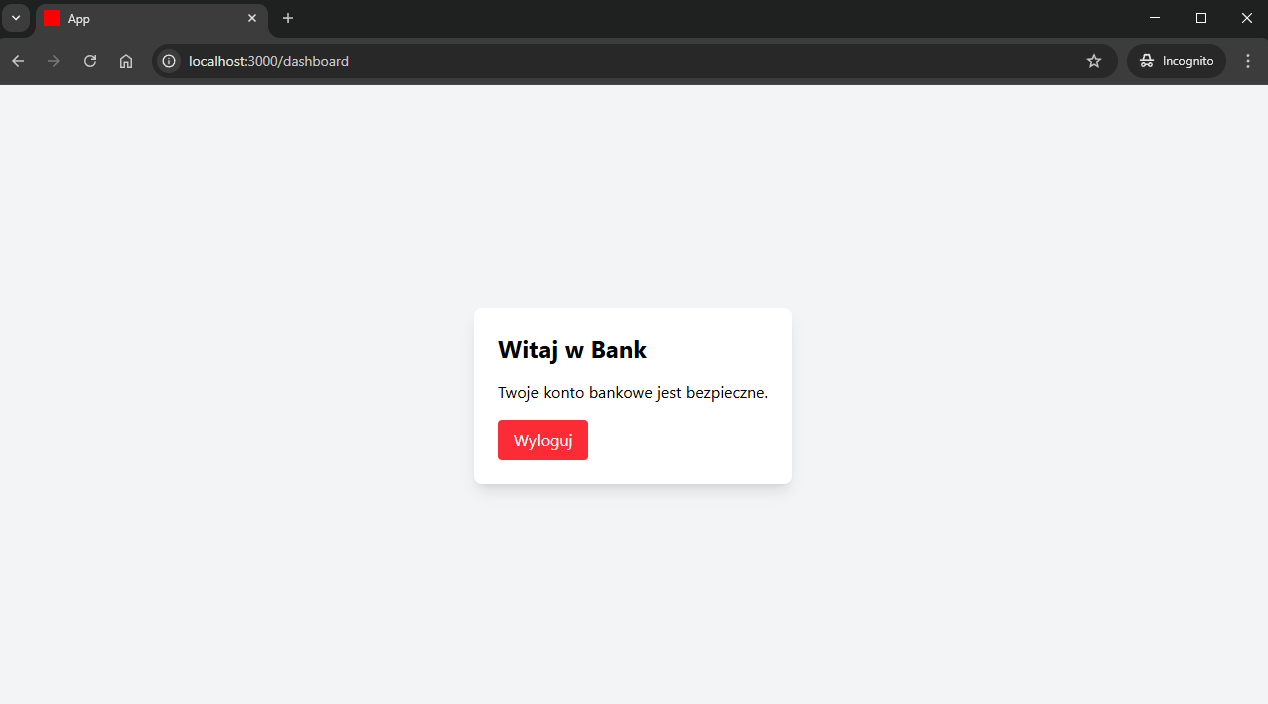
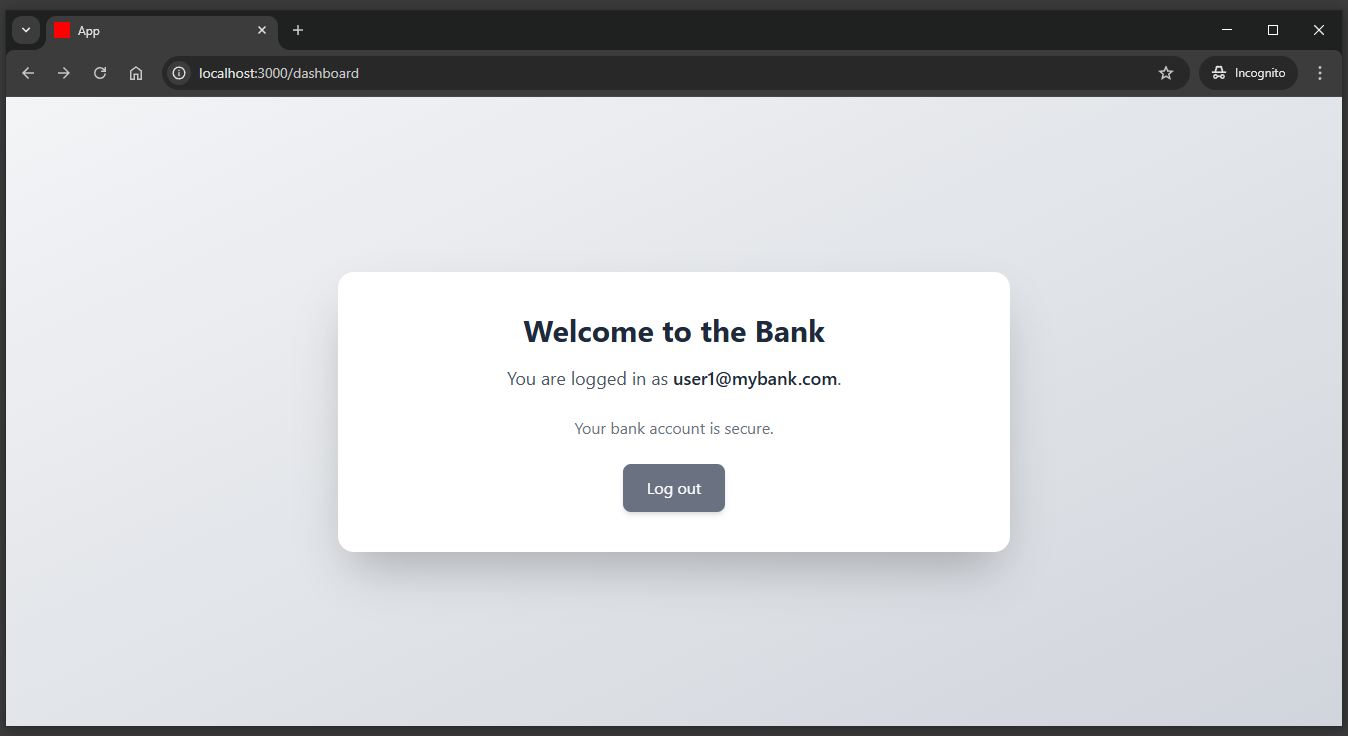
feat: add login rate limiting example

Changed region(s): [[0.0, 0.0, 1.0, 1.0], [0.3691, 0.4375, 0.6151, 0.7188]]

diff --git a/insecure-design/app/javascript/application.js b/insecure-design/app/javascript/application.js
@@ -1,3 +1,3 @@
 // Configure your import map in config/importmap.rb. Read more: https://github.com/rails/importmap-rails
-import "@hotwired/turbo-rails"
-import "controllers"
+import "@hotwired/turbo-rails";
+import "controllers";

diff --git a/insecure-design/config/routes.rb b/insecure-design/config/routes.rb
@@ -1,25 +1,18 @@
 Rails.application.routes.draw do
-  # Define your application routes per the DSL in https://guides.rubyonrails.org/routing.html
+  get 'up' => 'rails/health#show', as: :rails_health_check
+  get 'service-worker' => 'rails/pwa#service_worker', as: :pwa_service_worker
+  get 'manifest' => 'rails/pwa#manifest', as: :pwa_manifest
 
-  # Reveal health status on /up that returns 200 if the app boots with no exceptions, otherwise 500.
-  # Can be used by load balancers and uptime monitors to verify that the app is live.
-  get "up" => "rails/health#show", as: :rails_health_check
-
-  # Render dynamic PWA files from app/views/pwa/*
-  get "service-worker" => "rails/pwa#service_worker", as: :pwa_service_worker
-  get "manifest" => "rails/pwa#manifest", as: :pwa_manifest
-
-  # Defines the root path route ("/")
-  # root "posts#index"
+  # Insecure Design
   get 'login', to: 'sessions#new'
   post 'login', to: 'sessions#create'
   delete 'logout', to: 'sessions#destroy'
-
   get 'dashboard', to: 'dashboard#index'
-
-  # Fałszywa strona phishingowa
   get 'phishing-login', to: 'phishing#fake_login'
   post 'phishing-steal', to: 'phishing#steal_credentials'
 
-  root "sessions#new"
+  # Rate limiting
+  get 'rate_limited', to: 'errors#rate_limited'
+
+  root 'sessions#new'
 end

diff --git a/insecure-design/app/controllers/sessions_controller.rb b/insecure-design/app/controllers/sessions_controller.rb
@@ -1,29 +1,30 @@
 class SessionsController < ApplicationController
-  before_action :is_authenticated, only: %i[new create]
+  rate_limit to: 5, within: 1.minute, with: -> { redirect_to rate_limited_path }, only: %i[create]
 
-  def new; end
+  before_action :authenticated?, only: %i[new create]
 
-  # http://localhost:3000/login?redirect_to=http://localhost:3000/phishing-login
   def create
     user = User.find_by(email: params[:email])
 
-    if user && user.authenticate(params[:password])
+    if user&.authenticate(params[:password])
       session[:user_id] = user.id
+      session[:user_email] = user.email
       redirect_to params[:redirect_to] || dashboard_path
     else
-      flash[:alert] = 'Nieprawidłowy e-mail lub hasło'
+      flash[:alert] = 'Invalid email or password.'
       render :new
     end
   end
 
   def destroy
     session[:user_id] = nil
-    redirect_to login_path, notice: 'Wylogowano.'
+    session[:user_email] = nil
+    redirect_to login_path, notice: 'Logged out successfully.'
   end
 
   private
 
-  def is_authenticated
+  def authenticated?
     redirect_to dashboard_path if session[:user_id]
   end
 end

diff --git a/insecure-design/db/schema.rb b/insecure-design/db/schema.rb
@@ -10,9 +10,16 @@
 #
 # It's strongly recommended that you check this file into your version control system.
 
-ActiveRecord::Schema[7.2].define(version: 2025_03_05_103513) do
+ActiveRecord::Schema[7.2].define(version: 2025_03_05_120226) do
   # These are extensions that must be enabled in order to support this database
   enable_extension "plpgsql"
+
+  create_table "contact_messages", force: :cascade do |t|
+    t.string "email"
+    t.text "message"
+    t.datetime "created_at", null: false
+    t.datetime "updated_at", null: false
+  end
 
   create_table "users", force: :cascade do |t|
     t.string "email"

diff --git a/insecure-design/app/controllers/errors_controller.rb b/insecure-design/app/controllers/errors_controller.rb
@@ -1,0 +1,5 @@
+class ErrorsController < ApplicationController
+  def rate_limited
+    render :rate_limited, status: :too_many_requests
+  end
+end

diff --git a/login-rate-limiting/README.md b/login-rate-limiting/README.md
@@ -1,0 +1,75 @@
+# Login Rate Limit
+
+Aplikacja dla tego przykładu znajduje się w katalogu `rails-security-lab/insecure-design`.
+
+https://github.com/maciejb2k/ruby-on-rails-security/tree/main/insecure-design
+
+## Opis
+
+**Login Rate Limiting** - dotyczy braku odpowiedniego ograniczenia liczby prób logowania w aplikacji. Bez takiego zabezpieczenia atakujący może przeprowadzać ataki typu brute force (próbując zgadnąć hasło metodą prób i błędów) lub credential stuffing (wykorzystując wyciekłe dane logowania z innych serwisów).
+
+Ruby on Rails w wersji 7.2 wprowadził natywną funkcję `rate_limit`, pozwalającą na łatwą implementację ograniczeń dotyczących liczby żądań. We wcześniejszych wersjach wymagane było użycie dodatkowego gema, np. `Rack Attack`.
+
+## Przykład
+
+Jeżeli w aplikacji znajduje się formularz logowania, który nie posiada żadnego ograniczenia liczby prób logowania. Użytkownik może wykonywać nieograniczoną liczbę prób wpisania loginu i hasła.
+
+![](./screenshots/login-form.png)
+
+Brak rate limiting to zagrożenie nie tylko dla logowania. W aplikacji mogą istnieć inne kluczowe akcje, które powinny być chronione:
+
+- **Resetowanie hasła** – Atakujący może masowo wysyłać żądania resetowania hasła, co może skutkować spamowaniem e-maili użytkowników lub blokowaniem dostępu do konta poprzez atak typu account lockout.
+- **Weryfikacja kodów OTP** – Bez limitu prób atakujący może brute-force’ować sześciocyfrowe kody 2FA, co może doprowadzić do przejęcia konta użytkownika.
+- **Rejestracja użytkownika** – Masowe żądania rejestracji mogą doprowadzić do tworzenia tysięcy fałszywych kont, co obciąży system i może być wykorzystane do działań spamerskich.
+- **Sprawdzanie dostępności nazwy użytkownika** – Pozwala atakującym na enumerację istniejących kont użytkowników w systemie, co ułatwia ataki credential stuffing.
+- **Zadania wymagające dużej ilości zasobów** – Atakujący może generować dużą liczbę żądań, prowadząc do nadmiernego wykorzystania zasobów serwera i potencjalnego ataku DoS.
+
+## Skutki
+
+Brak rate limiting prowadzi do wielu zagrożeń:
+- **Atak brute-force na hasło** – atakujący może wielokrotnie próbować różnych haseł do konta.
+- **Credential stuffing** – sprawdzanie skradzionych loginów i haseł w celu uzyskania dostępu do konta.
+- **Przepełnienie skrzynki e-mail resetami hasła** – użytkownicy mogą być zasypywani mailami z resetem hasła.
+- **Przejęcie konta przez brute-force OTP** – jeśli aplikacja korzysta z 2FA, kod może zostać odgadnięty poprzez wielokrotne próby.
+- **Atak DoS (Denial of Service)** – nadmierna liczba żądań może doprowadzić do obciążenia serwera i zatrzymania aplikacji.
+- **Masowe rejestracje fałszywych kont** – może to zaszkodzić reputacji aplikacji oraz doprowadzić do jej niewłaściwego wykorzystania.
+- **Enumeration ataku na użytkowników** – sprawdzanie, czy dany email/login jest już używany w systemie.
+
+## Zalecenia
+
+## Ruby on Rails 7.2+
+
+Ruby on Rails od wersji `7.2` wprowadził natywną funkcję `rate_limit`, która pozwala na łatwe ograniczenie liczby żądań do określonego endpointu.
+
+Implementacja Rate Limiting w kontrolerze logowania w przykładowej aplikacji:
+```ruby
+class SessionsController < ApplicationController
+  rate_limit to: 5, within: 1.minute, with: -> { redirect_to rate_limited_path }, only: %i[create]
+
+  ...
+end
+```
+
+Jak działa `rate_limit`?
+- `to: 5` – określa maksymalną liczbę żądań (5 prób logowania).
+- `within: 1.minute` – limit obowiązuje w ciągu jednej minuty.
+- `with: -> { redirect_to rate_limited_path }` – przekierowanie użytkownika na stronę ostrzegającą.
+- `only: %i[create]` – dotyczy tylko akcji `create`, czy wysłania formularza logowania.
+
+Jeżeli w naszej przykładowej aplikacji spróbujemy się wielokrotnie zalogować, to po przekroczeniu 5 prób w ciągu minuty użytkownik zostanie przekierowany na stronę `rate_limited_path`.
+
+![](./screenshots/rate-limit.png)
+
+## Ruby on Rails < 7.2
+
+Dla starszych wersji Rails (przed 7.2) zalecane jest użycie gema **Rack Attack**, który pozwala na wdrożenie rate limiting poprzez konfigurację w middleware.
+
+Jest to elastyczne rozwiązanie, które umożliwia ograniczanie żądań na podstawie adresu IP, nagłówków lub innych parametrów. Rack Attack może być używany nie tylko do zabezpieczenia logowania, ale także do ochrony innych kluczowych endpointów, np. resetowania hasła czy weryfikacji OTP.
+
+```ruby
+class Rack::Attack
+  throttle("logins/ip", limit: 5, period: 1.minute) do |req|
+    req.ip if req.path == "/login" && req.post?
+  end
+end
+```

diff --git a/README.md b/README.md
@@ -50,7 +50,7 @@ Większość aplikacji w przykładach jest stworzona w oparciu o `Ruby on Rails 
 | - | - | - | - |
 | Open Redirect | ✅ | ✅ | [GitHub](https://github.com/maciejb2k/ruby-on-rails-security/tree/main/open-redirect) |
 | Regex Denial of Service (ReDoS) | ✅ | ❌ | [GitHub](https://github.com/maciejb2k/ruby-on-rails-security/tree/main/regex-dos) |
-| Login Rate Limiting | ✅ | ✅ | - |
+| Login Rate Limiting | ✅ | ✅ | [GitHub](https://github.com/maciejb2k/ruby-on-rails-security/tree/main/login-rate-limiting) |
 
 ### 3.5 A05:2021 - Security Misconfiguration
 
